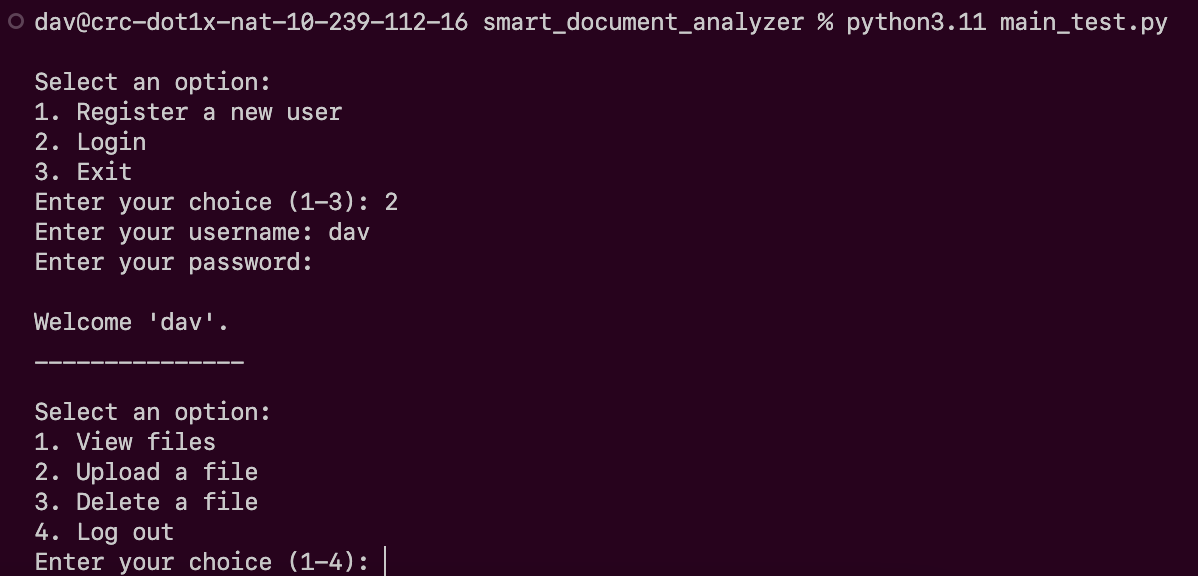
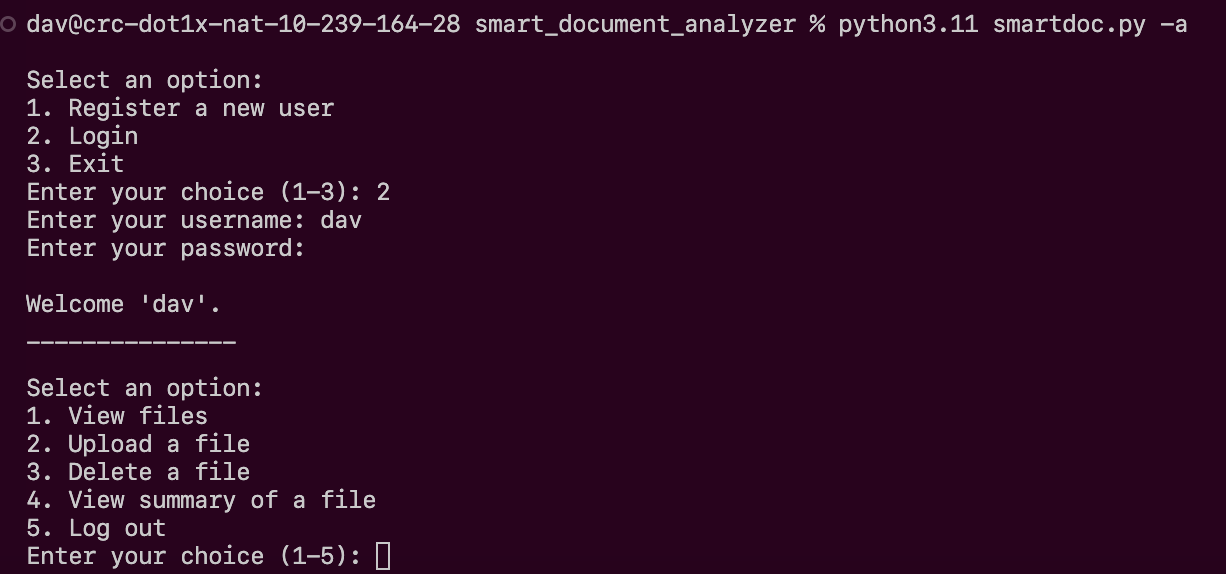
Finished summary feature!

Changed region(s): [[0.0, 0.5035, 0.3397, 1.0], [0.0, 0.1185, 0.3397, 0.4739], [0.0, 0.0, 0.9883, 0.0592]]

diff --git a/file.py b/file.py
@@ -7,6 +7,13 @@ import logging
 import pypdf
 import re
 import docx
+from nltk.corpus import stopwords
+from nltk.tokenize import word_tokenize
+import nltk
+from heapq import nlargest
+
+nltk.download('stopwords', quiet=True)
+nltk.download('punkt', quiet=True)
 
 
 def register_user(conn, cursor, username, password):
@@ -72,6 +79,42 @@ def login_user(conn, cursor, username, password):
     return existing_user[0]  # Return the user ID
 
 
+freq_dist = {}
+
+
+def extract_keywords(text, num_keywords=10):
+    stop_words = set(stopwords.words('english'))
+    words = word_tokenize(text)
+
+    for word in words:
+        if word.lower() not in stop_words:
+            if word.lower() not in freq_dist.keys():
+                freq_dist[word.lower()] = 1
+            else:
+                freq_dist[word.lower()] += 1
+
+    keywords = nlargest(num_keywords, freq_dist, key=freq_dist.get)
+    return keywords
+
+
+def summarize_text(text, num_sentences=3):
+    sentences = text.split(". ")
+    sentence_scores = {}
+
+    for sentence in sentences:
+        for word in word_tokenize(sentence.lower()):
+            if word in freq_dist.keys():
+                if sentence not in sentence_scores.keys():
+                    sentence_scores[sentence] = freq_dist[word]
+                else:
+                    sentence_scores[sentence] += freq_dist[word]
+
+    summary_sentences = nlargest(num_sentences, sentence_scores,
+                                 key=sentence_scores.get)
+    summary = " ".join(summary_sentences)
+    return summary
+
+
 def count_words(file_path):
     _, extension = os.path.splitext(file_path)
     if extension == '.pdf':
@@ -107,8 +150,9 @@ def file_manage(user_id, conn, cursor):
         print("1. View files")
         print("2. Upload a file")
         print("3. Delete a file")
-        print("4. Log out")
-        choice = input("Enter your choice (1-4): ")
+        print("4. View summary of a file")
+        print("5. Log out")
+        choice = input("Enter your choice (1-5): ")
         if choice == '1':
             # View files
             cursor.execute("SELECT * FROM uploaded_files WHERE user_id=?",
@@ -146,7 +190,7 @@ def file_manage(user_id, conn, cursor):
                 destination_path = os.path.join(upload_folder, filename)
                 shutil.copy2(filepath, destination_path)
 
-                # Count number of words in pdf
+                # Count number of words in pdf/doc/docx/txt
                 word_count = count_words(filepath)
 
                 # Insert uploaded folder into database
@@ -211,8 +255,46 @@ def file_manage(user_id, conn, cursor):
                     print("Deletion cancelled.")
             else:
                 print("\nYou have no files to delete.")
-
         elif choice == '4':
+            cursor.execute("SELECT * FROM uploaded_files WHERE user_id=?",
+                           (user_id,))
+            files = cursor.fetchall()
+            if files:
+                print("Your files:")
+                for file in files:
+                    print(f"ID: {file[0]}, {file[2]}")
+
+                file_id = input("Enter the ID of the file to view summary"
+                                " (0 to cancel): ")
+                if file_id != '0':
+                    cursor.execute(
+                        "SELECT * FROM uploaded_files WHERE id=? AND\
+                        user_id=?",
+                        (file_id, user_id)
+                    )
+                    file = cursor.fetchone()
+                    if file:
+                        pdf_reader = pypdf.PdfReader(file[4])
+                        text = ""
+                        for page in pdf_reader.pages:
+                            text += page.extract_text()
+
+                        keywords = extract_keywords(text)
+                        print("\nKeywords:", keywords)
+                        summary = summarize_text(text)
+                        print("\nSummary:", summary)
+                        print("\nRelated links:")
+                        for terms in keywords:
+                            if terms.isalpha():
+                                print("https://www.google.com/search?q="
+                                      + terms)
+                    else:
+                        print("File not found.")
+                else:
+                    print("Action canceled.")
+            else:
+                print("\nYou have no files to view.")
+        elif choice == '5':
             cursor.execute("SELECT username FROM data WHERE id = ?",
                            (user_id,))
             username = cursor.fetchone()[0]

diff --git a/readme.md b/readme.md
@@ -1,9 +1,9 @@
 # Smart Document Analyzer
 
-### EC530 Project2
+### EC530 Final Project
 #### David Li
 
-An easy to use command-line based program to store, view, and manipulate documents with secure user authentication and history backtracking.
+An easy to use command-line based program to store, view, manipulate, and summarize documents with secure user authentication and history backtracking.
 
 ## Features
 
@@ -12,32 +12,39 @@ An easy to use command-line based program to store, view, and manipulate documen
 - Word count for uploaded files (.txt, .doc, .docx, .pdf)
 - Logging of user actions and application events
 - Database management and file deletion options
+- Summarization of documents and additional links suggestions
 
 ## Requirements
 
 - Python 3.x
 - SQLite3
-- PyPDF2
+- PyPDF
 - python-docx
+- logging
+- nltk
+
 
 ## Installation
 
 1. Clone the repository
-2. Run the application with ```python3.11 test_main.py``` or python3.x version of your choice
+2. Run the application with ```python3.11 smart_doc.py``` or python3.x version of your choice
 3. Once logged in, you can:
 - View uploaded files
 - Upload new files
 - Delete files
+- Summarize uploaded files
 - Log out
 
 4. The application supports the following command-line arguments:
+- `-a`: Run program!
 - `-c`: Clean the database and delete all uploaded files
 - `-g`: Generate a new database for testing
 - `-r`: Clean and generate a new database
 
 ## File Structure
 
-- `test_main.py`: The main entry point of the application
+- `smart_doc.py`: Main executable for program
+- `test_main.py`: Backend testing implementation
 - `file.py`: Contains functions for user registration, login, and file management
 - `database.py`: Handles database initialization and creation of tables
 - `fullclean_db.py`: Provides functions for clearing the database and deleting files
@@ -49,6 +56,12 @@ An easy to use command-line based program to store, view, and manipulate documen
 The application logs various events and user actions to the `app.log` file. The log file includes timestamps, log levels, and log messages for tracking and debugging purposes.
 
 ## Example Use
+<p align="center">
+<img src="./images/6.png" width="80%">
+</p>
+<p align="center">
+Must run smartdoc application with an argument tag.
+</p>
 <p align="center">
 <img src="./images/2.png" width="80%">
 </p>
@@ -78,6 +91,24 @@ Viewing files. (Textbooks have large word counts!)
 </p>
 <p align="center">
 Deleting file clears it from the database for the logged in user and removes from stored directory.
+</p>
+<p align="center">
+<img src="./images/7.png" width="80%">
+</p>
+<p align="center">
+Viewing summary of the file. (Chapter on Palestine History)
+</p>
+<p align="center">
+<img src="./images/8.png" width="80%">
+</p>
+<p align="center">
+Viewing summary of the file not only includes keywords and a summary but also related links pertaining to the topic!
+</p>
+<p align="center">
+<img src="./images/9.png" width="80%">
+</p>
+<p align="center">
+Docker file implementation. Requirements.txt can be seen in source code.
 </p>
 
 
